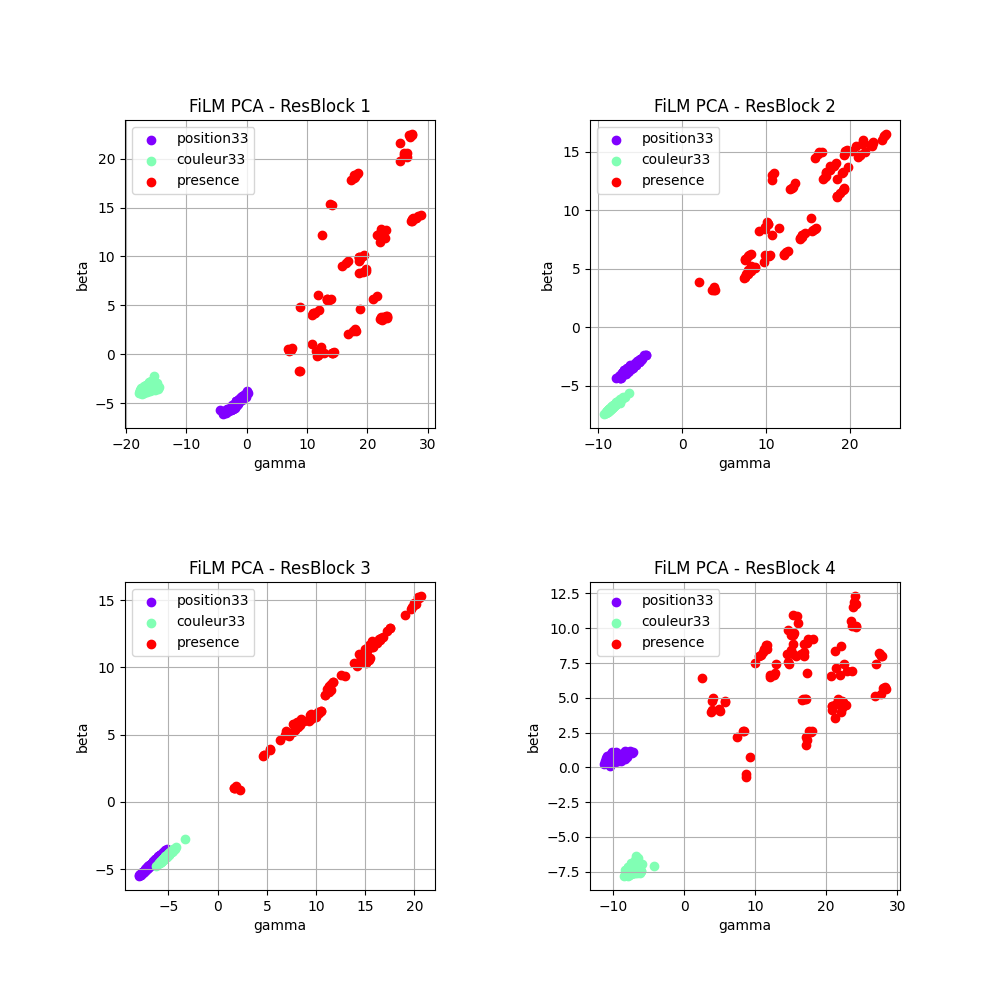
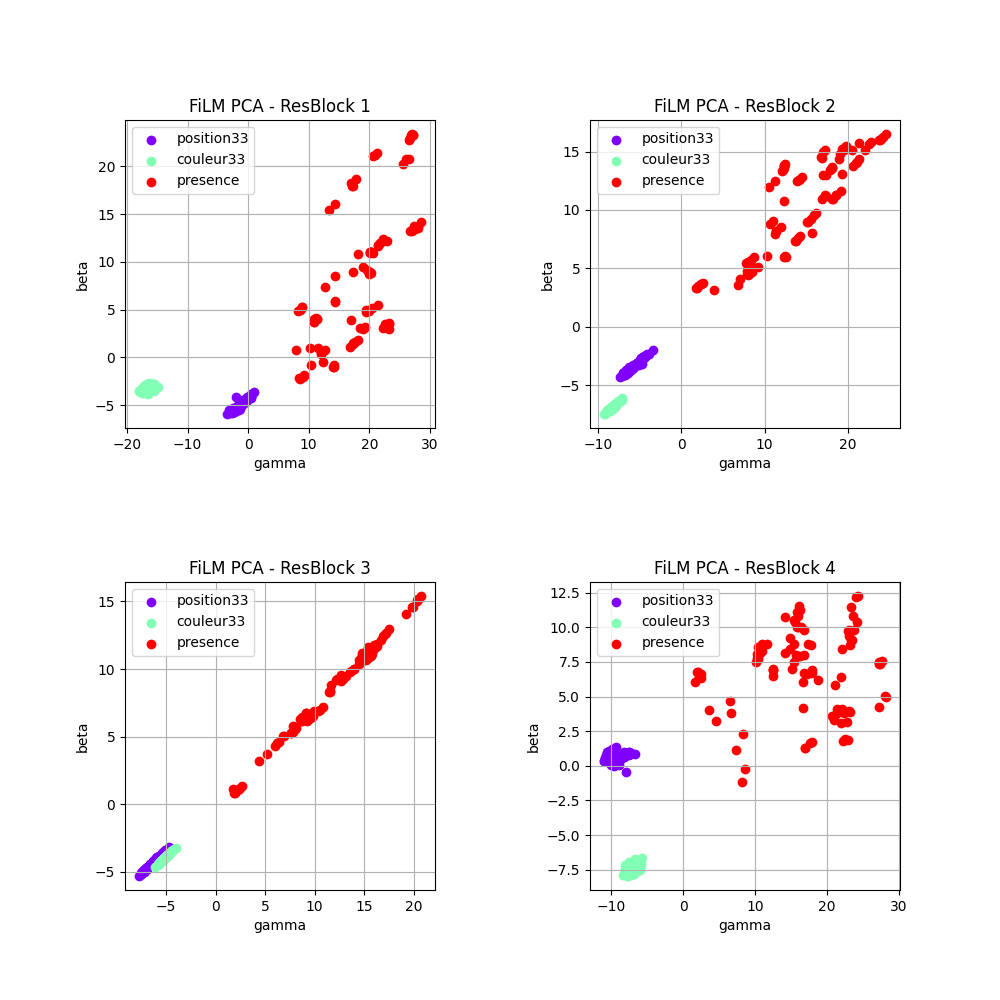
SEED project for reproduction + PCA main

diff --git a/src/Analysis.py b/src/Analysis.py
@@ -14,6 +14,7 @@ from sklearn.decomposition import PCA
 
 def FiLMGeneratorPCA(model_name):
 
+    print(f"  > Loading model '{model_name}.pth' and data structure")
     # Lecture de configuration choisie
     with open('src/config.txt', 'r') as config:
         for line in config.readlines():
@@ -39,6 +40,8 @@ def FiLMGeneratorPCA(model_name):
     model.load_state_dict(torch.load("src/Data/"+model_name+".pth", map_location={'cuda:0': 'cpu'}))
     model.eval()
 
+    
+
     # Initialisation liste des paramètres gamma/beta
     gamma1list = []
     beta1list = []
@@ -55,6 +58,8 @@ def FiLMGeneratorPCA(model_name):
     # types de questions possibles pour notre modele
     qtypes = datagen.qtypes
     n_points = 100
+
+    print(f"  > Computing {n_points} FiLM parameters for each question type")
 
     for q in qtypes :
         for n_try in range(n_points):
@@ -81,6 +86,8 @@ def FiLMGeneratorPCA(model_name):
 
     gammaList = [gamma1list, gamma2list, gamma3list, gamma4list]
     betaList = [beta1list, beta2list, beta3list, beta4list]
+
+    print(f"  > PCA and plotting points")
 
     fig, axes = plt.subplots(2, 2, figsize=(10, 10))
     cmap = matplotlib.colormaps.get_cmap("rainbow")
@@ -112,7 +119,3 @@ def FiLMGeneratorPCA(model_name):
     plt.subplots_adjust(hspace=0.5, wspace=0.5)
     fig.savefig(f"src/Graphs/FiLM_PCA_{model_name}.png")
     plt.show()
-
-
-        
-FiLMGeneratorPCA("mod_best_data3")

diff --git a/src/main.py b/src/main.py
@@ -1,19 +1,30 @@
 from Model.ModelTrain import ModelTrain
 from Model.ModelTest import ModelTest
+from Analysis import FiLMGeneratorPCA
 import random
+import numpy as np
+
 
 def main():
     print("#########################################################")
     print("###############      RUNNING PROJECT      ###############")
     print(f"#########################################################\n")
 
-    # Seed for data generation
-    GENERATOR_SEED = 21227063002
-    random.seed(GENERATOR_SEED)
+
+    
+    # Seed for reproduction
+    SEED = 42
+    random.seed(SEED)
+    np.random.seed(SEED)
+    print(f"  > Setting project SEED : {SEED}")
 
     # ModelTrain()
+    
     # ModelTest("mod_best_data3")
     
+    FiLMGeneratorPCA("mod_best_data3")
+
+
     print(f"\n===========            END PROCESS            ===========")
     
     return 0
